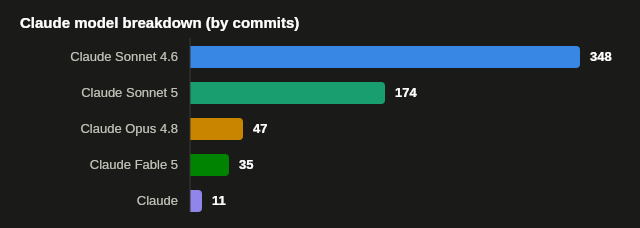
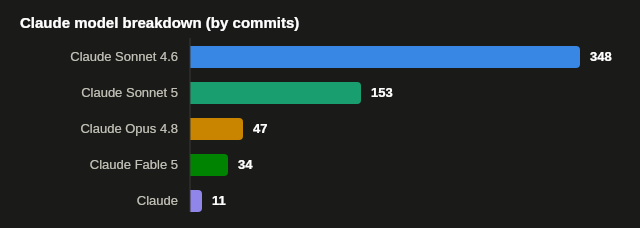
Release v2.7.1
fix: compile better-sqlite3 from source for arm64/armv7 add-on builds
(already merged to dev as 49f90a2) is the sole change in this release.
Fixes the add-on failing to start on ARM since v2.6.1's Node 22 upgrade.

Bump GLP_VERSION/config.yaml/package.json to 2.7.1, add CHANGELOG entry,
regenerate dev-stats.

Closes #428, closes #419

Changed region(s): [[0.5625, 0.3377, 0.6562, 0.4605], [0.3438, 0.7061, 0.4062, 0.7368]]

diff --git a/gaggiuino-local-profiler/lib/constants.js b/gaggiuino-local-profiler/lib/constants.js
@@ -3,7 +3,7 @@ if (typeof File === 'undefined') {
     try { global.File = require('buffer').File; } catch (_) { global.File = class File {}; }
 }
 
-const GLP_VERSION  = '2.7.0';
+const GLP_VERSION  = '2.7.1';
 const DEFAULT_PORT = 8099;
 
 const DATA_DIR             = '/data';

diff --git a/DEVELOPMENT.md b/DEVELOPMENT.md
@@ -8,15 +8,15 @@ The GLP ecosystem (this app + 3 companion repos) has been in development since *
 
 | Repo | First commit | Last commit | Commits | Claude co-authored |
 |---|---|---|---|---|
-| gaggiuino-local-profiler | 2026-05-20 | 2026-07-21 | 561 | 441 (79%) |
+| gaggiuino-local-profiler | 2026-05-20 | 2026-07-21 | 538 | 419 (78%) |
 | glp-integration | 2026-05-22 | 2026-07-14 | 76 | 61 (80%) |
 | glp-lovelace-card | 2026-05-24 | 2026-07-15 | 81 | 69 (85%) |
 | glp-order-card | 2026-05-25 | 2026-07-15 | 53 | 44 (83%) |
-| **Combined** | **2026-05-20** | **2026-07-21** | **771** | **615 (80%)** |
+| **Combined** | **2026-05-20** | **2026-07-21** | **748** | **593 (79%)** |
 
 ![Commits per repo](docs/dev-stats/commits-per-repo.png)
 
-Combined line changes (insertions + deletions across all commits): **247.074**, of which **189.823** landed in Claude-co-authored commits.
+Combined line changes (insertions + deletions across all commits): **243.329**, of which **186.078** landed in Claude-co-authored commits.
 
 Commits without a Claude co-author line are presumed human-only (manual fixes, merges, config tweaks) — not independently verified.
 
@@ -25,9 +25,9 @@ Commits without a Claude co-author line are presumed human-only (manual fixes, m
 | Model | Commits |
 |---|---|
 | Claude Sonnet 4.6 | 348 |
-| Claude Sonnet 5 | 174 |
+| Claude Sonnet 5 | 153 |
 | Claude Opus 4.8 | 47 |
-| Claude Fable 5 | 35 |
+| Claude Fable 5 | 34 |
 | Claude | 11 |
 
 ![Claude model breakdown by commits](docs/dev-stats/model-breakdown.png)
@@ -38,7 +38,7 @@ The exact co-author string varies by era as model names changed over the project
 
 This is **not** measured token usage or an actual invoice. It multiplies changed lines (insertions + deletions) in Claude-co-authored commits by an assumed 25 tokens/line (covers the conversation and planning overhead around a diff, not just the diff bytes), then applies the price table in `scripts/dev-stats.pricing.json` — which ships with every price set to `null` until you fill in your own plan/API rates.
 
-**Estimated cost: ~$29.23** across 186.396 priced lines (+ 3.427 lines from unpriced models, excluded from this total).
+**Estimated cost: ~$28.97** across 182.556 priced lines (+ 3.523 lines from unpriced models, excluded from this total).
 
 ---
 *This file is generated. Do not hand-edit — re-run `node scripts/dev-stats.mjs` instead.*

diff --git a/gaggiuino-local-profiler/CHANGELOG.md b/gaggiuino-local-profiler/CHANGELOG.md
@@ -1,3 +1,8 @@
+## [2.7.1] – 2026-07-21
+
+### Fixed
+- **Add-on failing to start on arm64/armv7 since v2.6.1.** better-sqlite3 only checks whether a prebuilt native binary exists for the target platform, not whether it's actually glibc-compatible: the bundled arm64 prebuild requires glibc ≥2.38, but `node:22-slim` (Debian Bookworm) only ships 2.36, and armv7 had no bundled prebuild at all — so the DB layer crashed on startup on both ARM architectures. The Dockerfile's prod-deps stage now builds better-sqlite3 from source for every non-amd64 target, running under QEMU on the real target architecture instead of the previous `--platform=$BUILDPLATFORM` cross-compile pin, so the compile happens against that image's actual glibc. amd64 is untouched and keeps its already-verified prebuilt binary. Verified with real QEMU builds, container runs, and HTTP round-trips (`POST /api/library/bean`, `GET /api/library`) for all three architectures — amd64 315MB (unchanged, ~33s cached build), arm64 330MB (~17min from-source build, clean start), armv7 267MB (clean start). Closes #428, closes #419
+
 ## [2.7.0] – 2026-07-21
 
 ### Changed